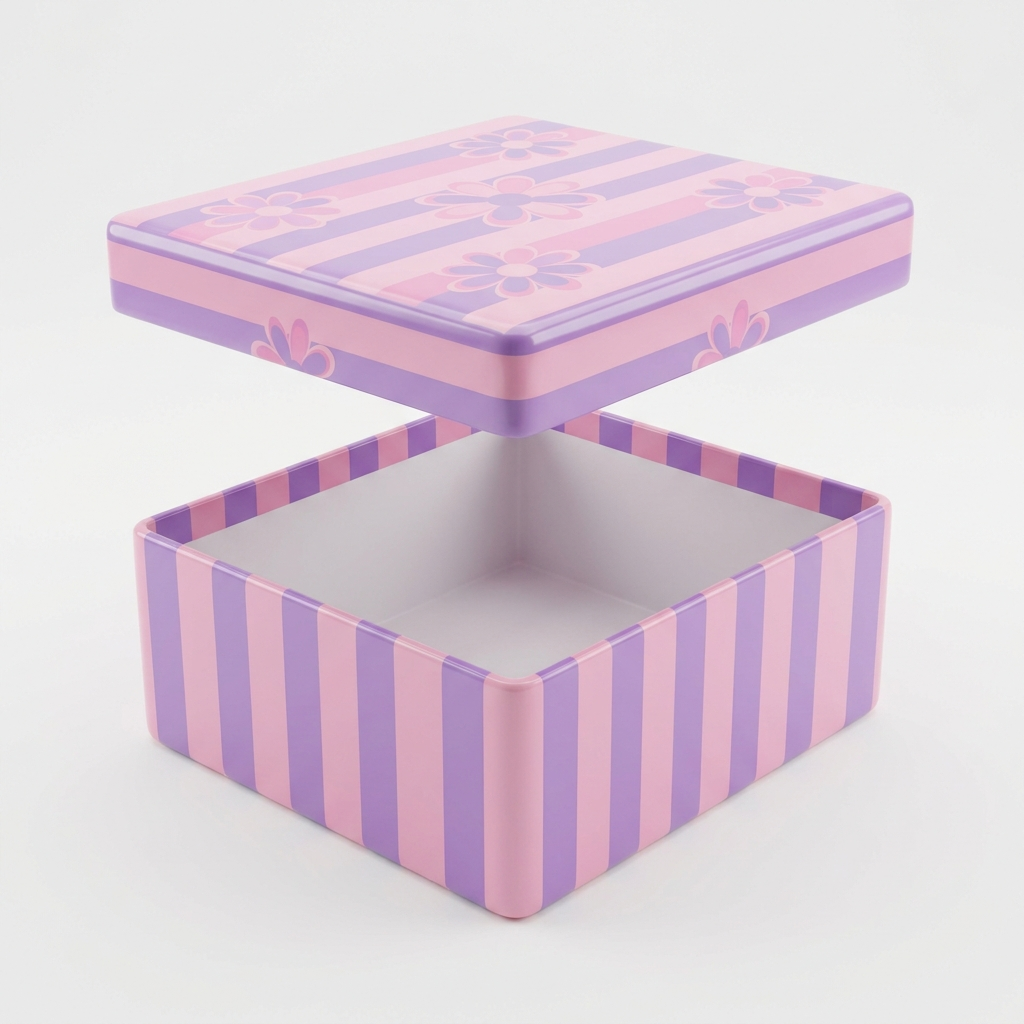
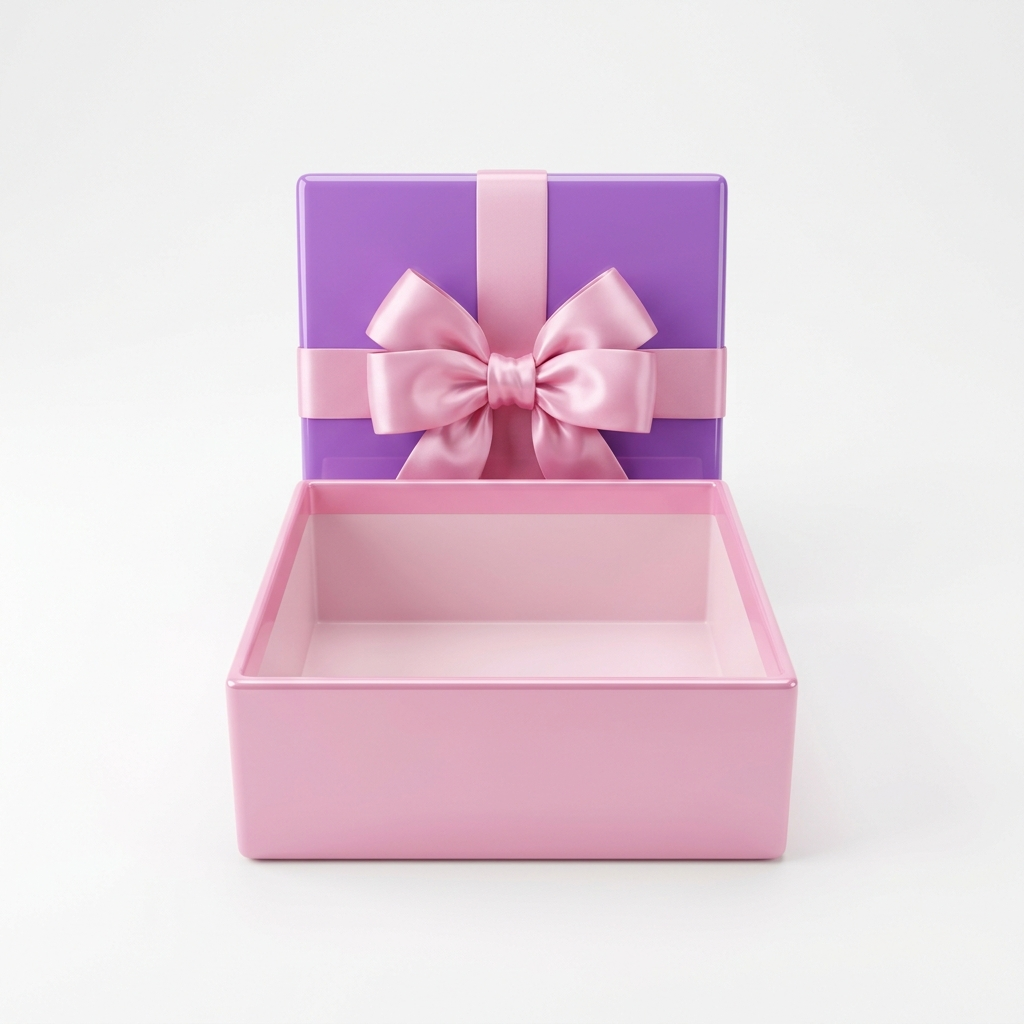
Finalize scroll animation: Lid behind box, shorter scroll, and optimized responsive scale

diff --git a/frontend/src/components/Landing.jsx b/frontend/src/components/Landing.jsx
@@ -9,18 +9,18 @@ export default function Landing({ onNext }) {
     offset: ["start start", "end end"]
   })
 
-  // Animation values based on scroll - adjusted for faster completion
-  const boxScale = useTransform(scrollYProgress, [0, 0.4], [1, 1.5])
-  const closedOpacity = useTransform(scrollYProgress, [0.2, 0.4], [1, 0])
-  const openOpacity = useTransform(scrollYProgress, [0.3, 0.5], [0, 1])
-  const qMarkY = useTransform(scrollYProgress, [0.4, 0.8], [50, -110])
-  const qMarkScale = useTransform(scrollYProgress, [0.4, 0.7], [0, 1.1])
-  const qMarkOpacity = useTransform(scrollYProgress, [0.4, 0.6], [0, 1])
+  // Animation values based on scroll - ULTRA fast completion
+  const boxScale = useTransform(scrollYProgress, [0, 0.4], [1, 1.3])
+  const closedOpacity = useTransform(scrollYProgress, [0.15, 0.3], [1, 0])
+  const openOpacity = useTransform(scrollYProgress, [0.2, 0.4], [0, 1])
+  const qMarkY = useTransform(scrollYProgress, [0.35, 0.7], [40, -100])
+  const qMarkScale = useTransform(scrollYProgress, [0.35, 0.6], [0, 1.1])
+  const qMarkOpacity = useTransform(scrollYProgress, [0.35, 0.5], [0, 1])
   
-  // Hero text fades out quickly
-  const contentOpacity = useTransform(scrollYProgress, [0, 0.15], [1, 0])
-  const footerY = useTransform(scrollYProgress, [0.5, 0.8], [80, 0])
-  const footerOpacity = useTransform(scrollYProgress, [0.5, 0.7], [0, 1])
+  // Hero text fades out almost immediately
+  const contentOpacity = useTransform(scrollYProgress, [0, 0.1], [1, 0])
+  const footerY = useTransform(scrollYProgress, [0.4, 0.7], [60, 0])
+  const footerOpacity = useTransform(scrollYProgress, [0.4, 0.6], [0, 1])
 
   const steps = [
     { icon: <Users className="w-7 h-7 text-pink-500" />, title: 'Kenali dia', desc: 'dengan ringkas', color: 'bg-pink-50' },
@@ -30,7 +30,7 @@ export default function Landing({ onNext }) {
   ]
 
   return (
-    <div ref={containerRef} className="relative h-[180vh] w-full">
+    <div ref={containerRef} className="relative h-[140vh] w-full">
       {/* Sticky Container */}
       <div className="sticky top-0 h-screen w-full flex flex-col items-center overflow-hidden">
         
@@ -72,12 +72,12 @@ export default function Landing({ onNext }) {
             Hadiah yang<br/>dia akan <span className="text-pink-500">ingat</span>
           </h1>
           <p className="text-slate-500 text-lg font-bold">
-            Scroll ke bawah... ✨
+            Scroll sekejap... ✨
           </p>
         </motion.div>
 
         {/* Center Animation Area */}
-        <div className="flex-1 w-full flex items-center justify-center relative -mt-20">
+        <div className="flex-1 w-full flex items-center justify-center relative -mt-16">
           <motion.div
             style={{ scale: boxScale }}
             className="relative w-80 h-80 flex items-center justify-center"
@@ -94,7 +94,7 @@ export default function Landing({ onNext }) {
                 maskImage: 'radial-gradient(circle, black 50%, transparent 95%)',
                 WebkitMaskImage: 'radial-gradient(circle, black 50%, transparent 95%)'
               }}
-              className="absolute z-30 w-40 h-40"
+              className="absolute z-30 w-32 h-32"
             >
               <img src="/q-mark.png" className="w-full h-full object-contain mix-blend-multiply brightness-[1.15] contrast-[1.1]" alt="?" />
             </motion.div>
@@ -111,7 +111,7 @@ export default function Landing({ onNext }) {
               <img src="/box-closed.png" className="w-full h-full object-contain mix-blend-multiply brightness-[1.08]" alt="Closed Box" />
             </motion.div>
 
-            {/* Open Box */}
+            {/* Open Box - Lid is behind in this image */}
             <motion.div
               style={{ 
                 opacity: openOpacity,
@@ -127,7 +127,7 @@ export default function Landing({ onNext }) {
           {/* Floating assets */}
           <motion.div 
             style={{ opacity: contentOpacity }}
-            className="absolute left-10 top-1/2 -translate-y-1/2 w-24 h-24"
+            className="absolute left-6 top-1/2 -translate-y-1/2 w-20 h-20"
           >
             <div className="w-full h-full relative" style={{ maskImage: 'radial-gradient(circle, black 40%, transparent 90%)' }}>
               <img src="/heart.png" className="w-full h-full object-contain mix-blend-multiply brightness-[1.08] contrast-[1.1] animate-float-slow" alt="Heart" />
@@ -135,7 +135,7 @@ export default function Landing({ onNext }) {
           </motion.div>
           <motion.div 
             style={{ opacity: contentOpacity }}
-            className="absolute right-10 top-1/2 -translate-y-1/2 w-24 h-24"
+            className="absolute right-6 top-1/2 -translate-y-1/2 w-20 h-20"
           >
             <div className="w-full h-full relative" style={{ maskImage: 'radial-gradient(circle, black 40%, transparent 90%)' }}>
               <img src="/bag.png" className="w-full h-full object-contain mix-blend-multiply brightness-[1.08] contrast-[1.1] animate-float-slow" alt="Bag" />
@@ -143,10 +143,10 @@ export default function Landing({ onNext }) {
           </motion.div>
         </div>
 
-        {/* Footer Area - Persistent at bottom after certain scroll */}
+        {/* Footer Area */}
         <motion.div 
           style={{ y: footerY, opacity: footerOpacity }}
-          className="w-full max-w-2xl px-6 pb-12 flex flex-col items-center relative z-40"
+          className="w-full max-w-2xl px-6 pb-10 flex flex-col items-center relative z-40"
         >
           {/* Steps Card */}
           <div className="w-full glass-card p-6 mb-6">